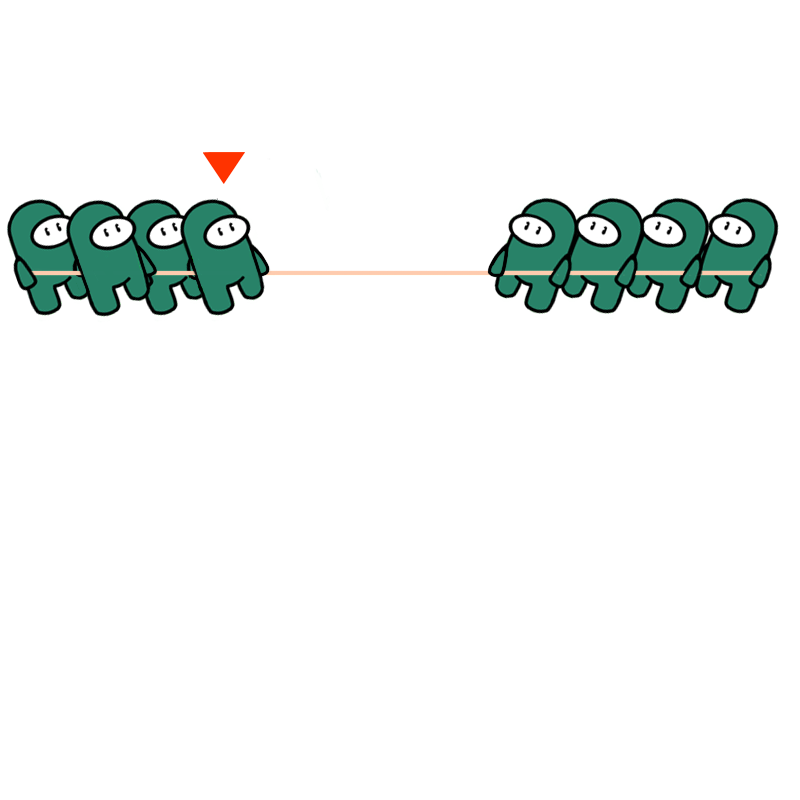
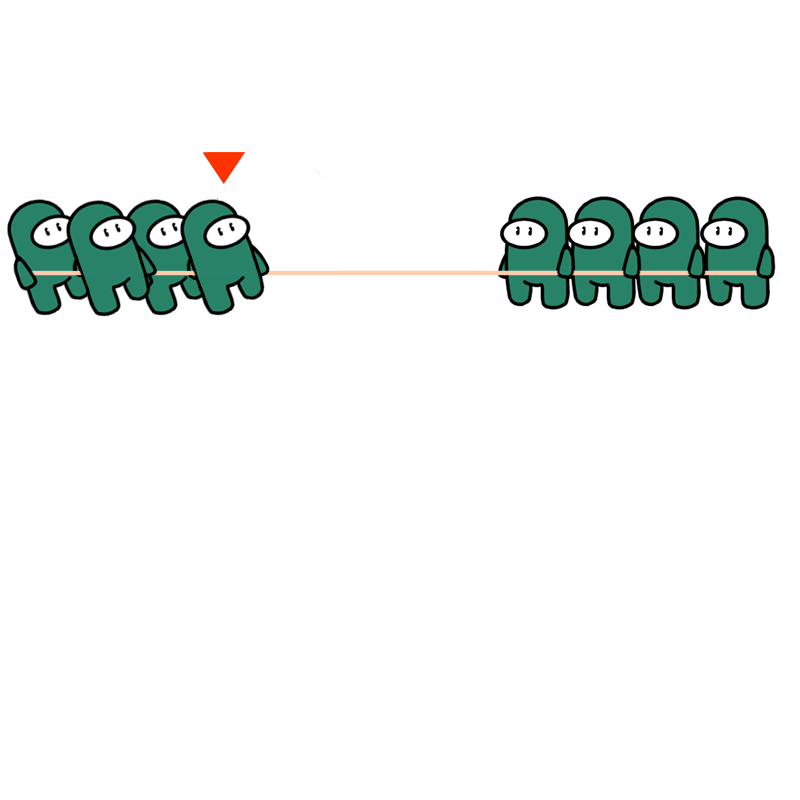
11.17 오한음 Tug - Change holding images

Changed region(s): [[0.5938, 0.2188, 0.9688, 0.4062]]

diff --git a/main.py b/main.py
@@ -8,53 +8,51 @@ SCREEN_WIDTH = 800
 SCREEN_HEIGHT = 800
 
 
-# if __name__ == "__main__":
-#     SCORE = 0
-#     LEVEL = 1
-#
-#     while True:
-#         # mugunghwa_score = start_mugunghwa_game(LEVEL, SCORE)
-#         # if mugunghwa_score:
-#         #     SCORE += mugunghwa_score
-#         # else:
-#         #     break
-#         # dalgona_score = start_dalgona_game(LEVEL, SCORE)
-#         # if dalgona_score:
-#         #     SCORE += dalgona_score
-#         # else:
-#         #     break
-#         marble_score = start_marble_game(LEVEL, SCORE)
-#         if marble_score:
-#             SCORE += marble_score
-#         else:
-#             break
-#         tug_score = start_tug_game(LEVEL, SCORE)
-#         if tug_score:
-#             SCORE += tug_score
-#         else:
-#             break
-#
-#         LEVEL += 1
-#     pygame.init()
-#     screen = pygame.display.set_mode((SCREEN_WIDTH, SCREEN_HEIGHT))
-#     ref_w, ref_h = screen.get_size()
-#     RUNNING = True
-#     while RUNNING:
-#         for event in pygame.event.get():
-#             if event.type == pygame.QUIT:
-#                 RUNNING = False
-#         screen.fill(PINK)
-#         message_to_screen_center(screen, '게임 종료', WHITE, korean_font,
-#                                  SCREEN_WIDTH / 3,
-#                                  ref_w,
-#                                  ref_h)
-#         message_to_screen_center(screen, f'점수는 {round(SCORE)} 점입니다. ', WHITE, korean_font,
-#                                  SCREEN_WIDTH / 2,
-#                                  ref_w,
-#                                  ref_h)
-#         pygame.display.update()
-#
-#
+if __name__ == "__main__":
+    SCORE = 0
+    LEVEL = 1
+
+    while True:
+        # mugunghwa_score = start_mugunghwa_game(LEVEL, SCORE)
+        # if mugunghwa_score:
+        #     SCORE += mugunghwa_score
+        # else:
+        #     break
+        # dalgona_score = start_dalgona_game(LEVEL, SCORE)
+        # if dalgona_score:
+        #     SCORE += dalgona_score
+        # else:
+        #     break
+        # marble_score = start_marble_game(LEVEL, SCORE)
+        # if marble_score:
+        #     SCORE += marble_score
+        # else:
+        #     break
+        tug_score = start_tug_game(LEVEL, SCORE)
+        if tug_score:
+            SCORE += tug_score
+        else:
+            break
+
+        LEVEL += 1
+    pygame.init()
+    screen = pygame.display.set_mode((SCREEN_WIDTH, SCREEN_HEIGHT))
+    ref_w, ref_h = screen.get_size()
+    RUNNING = True
+    while RUNNING:
+        for event in pygame.event.get():
+            if event.type == pygame.QUIT:
+                RUNNING = False
+        screen.fill(PINK)
+        message_to_screen_center(screen, '게임 종료', WHITE, korean_font,
+                                 SCREEN_WIDTH / 3,
+                                 ref_w,
+                                 ref_h)
+        message_to_screen_center(screen, f'점수는 {round(SCORE)} 점입니다. ', WHITE, korean_font,
+                                 SCREEN_WIDTH / 2,
+                                 ref_w,
+                                 ref_h)
+        pygame.display.update()
 
 
-import Games.game_menu
+
